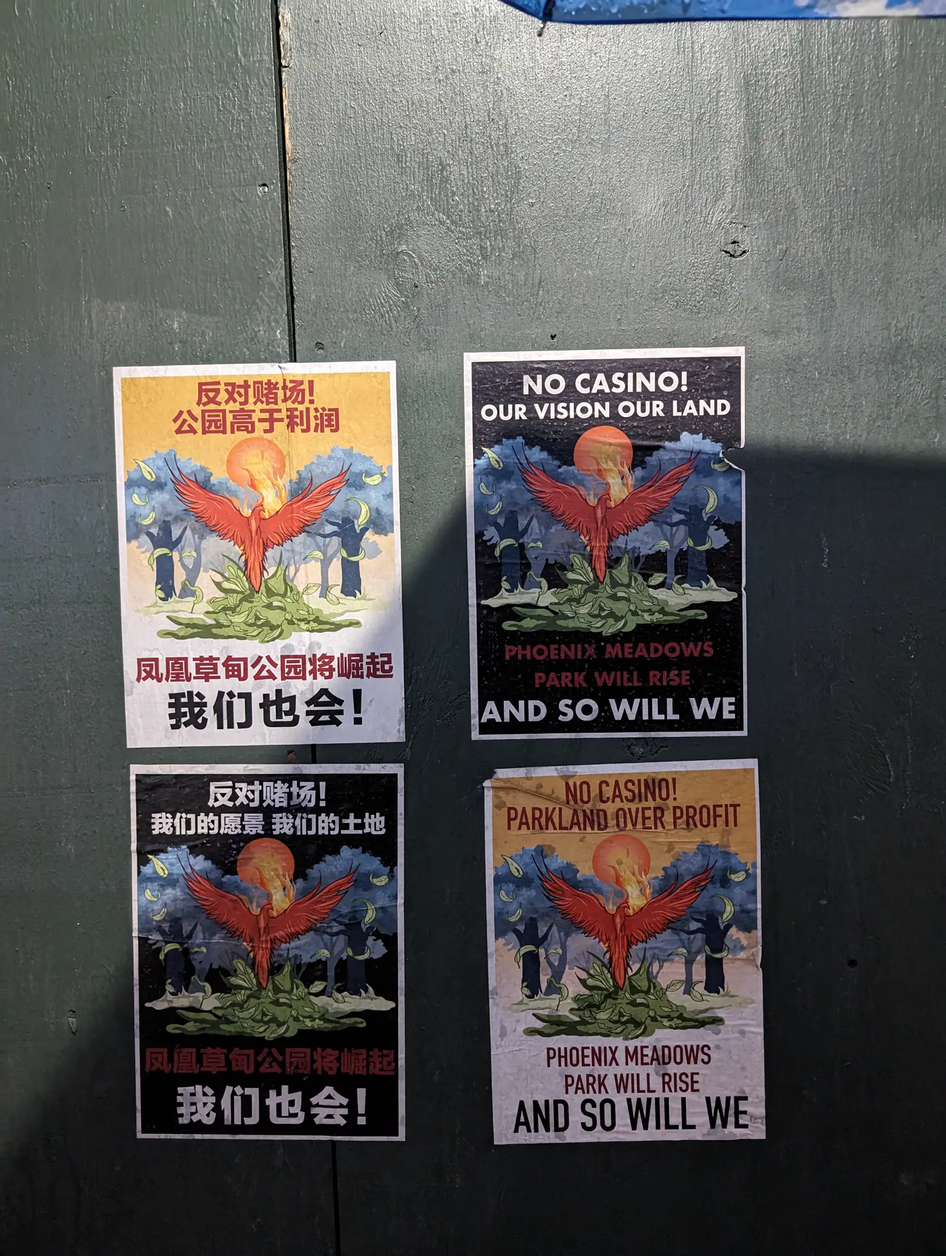
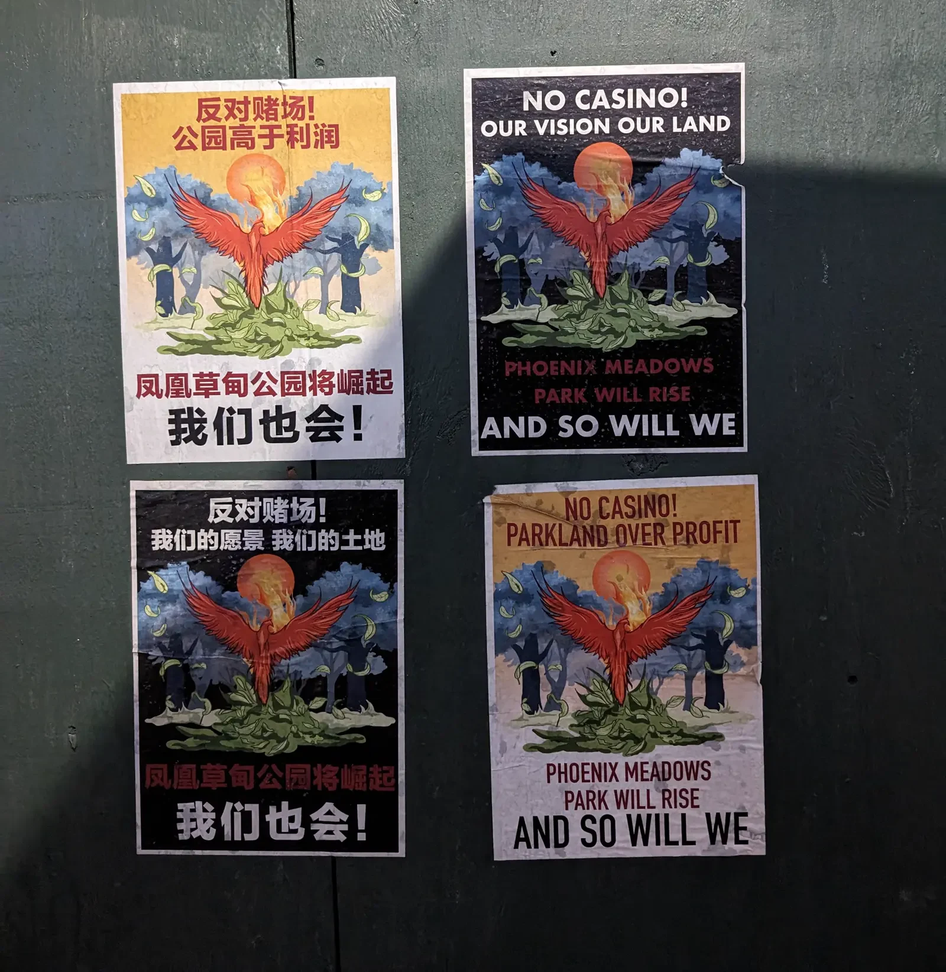
bedac: slide 6 rework — new press/render images, SFWD added
Poster photo cropped to drop the empty top wall (object-position hack no
longer needed). WSJ press item replaced with the masthead cropped off so
the headline reads at slide size. Casino render replaced with the article
image (Cohen + Hard Rock/Field Operations render). Added the Special
Flushing Waterfront District aerial as a third image in row 2, labeled
with a figcaption chip. Also moved the Santana plan/vertical slide ahead
of the experiential drawings.

diff --git a/talks/bedac/index.html b/talks/bedac/index.html
@@ -84,14 +84,15 @@
           </div>
 
           <!-- 5 · The casino fight + positionality -->
-          <div class="slide auto-rows" data-cap="Who owns the narrative?" data-credit="Photos: Zihao Zhang" data-notes="&lt;ul&gt;&lt;li&gt;$8B casino complex licensed Dec 2025, Field Operations landscape.&lt;/li&gt;&lt;li&gt;Protest.&lt;/li&gt;&lt;li&gt;Shanghai-like city. Dream.&lt;/li&gt;&lt;/ul&gt;">
+          <div class="slide auto-rows" data-cap="Who owns the narrative?" data-credit="Photos: Zihao Zhang · Renderings: Hard Rock/Field Operations; Jeff Stikeman Architectural Art · Press: WSJ" data-notes="&lt;ul&gt;&lt;li&gt;$8B casino complex licensed Dec 2025, Field Operations landscape.&lt;/li&gt;&lt;li&gt;Protest.&lt;/li&gt;&lt;li&gt;Shanghai-like city. Dream.&lt;/li&gt;&lt;/ul&gt;">
             <div class="row">
-              <figure><img src="/talks/bedac/img/s03_3.webp" alt="Bilingual NO CASINO posters on a wall in Flushing" style="object-position:center 78%;"></figure>
+              <figure><img src="/talks/bedac/img/s03_3.webp" alt="Bilingual NO CASINO posters on a wall in Flushing"></figure>
               <figure><img src="/talks/bedac/img/s_casino_3.webp" alt="Press item: New York developer bets on an $800 million project to make Queens feel like Shanghai"></figure>
             </div>
             <div class="row">
               <figure><img src="/talks/bedac/img/s_casino_1.webp" alt="Residents protesting the Metropolitan Park casino with signs in Spanish, Chinese and English"></figure>
-              <figure><img src="/talks/bedac/img/s_casino_2.webp" alt="Rendering of the proposed Metropolitan Park casino complex beside Citi Field"></figure>
+              <figure><img src="/talks/bedac/img/s_casino_2.webp" alt="Mets owner Steve Cohen beside a rendering of the proposed Metropolitan Park casino complex"></figure>
+              <figure><img src="/talks/bedac/img/s_swd.webp" alt="Aerial rendering of the Special Flushing Waterfront District along Flushing Creek"><figcaption>Special Flushing Waterfront District</figcaption></figure>
             </div>
           </div>
 
@@ -178,6 +179,12 @@
             <img src="/talks/bedac/img/s09_3.webp" alt="Sabastian Gatton, experiential drawing of a planted allée">
           </div>
 
+          <!-- 31 · Santana, plan + vertical -->
+          <div class="slide auto" data-cap="Lia Santana — plan and vertical study" data-notes="">
+            <figure><img src="/talks/bedac/img/s09b_5.webp" alt="Lia Santana, rotated site plan"></figure>
+            <figure><img src="/talks/bedac/img/s09b_4.webp" alt="Lia Santana, vertical study"></figure>
+          </div>
+
           <!-- 29 · Santana -->
           <div class="slide auto" data-cap="Lia Santana — experiential drawings" data-notes="">
             <figure><img src="/talks/bedac/img/s09b_1.webp" alt="Lia Santana, experiential drawing with structures and canopy"></figure>
@@ -187,12 +194,6 @@
           <!-- 30 · Santana, structure -->
           <div class="slide single" data-cap="Lia Santana — scaffold and water's edge" data-notes="">
             <img src="/talks/bedac/img/s09b_3.webp" alt="Lia Santana, timber scaffold structure at the water's edge">
-          </div>
-
-          <!-- 31 · Santana, plan + vertical -->
-          <div class="slide auto" data-cap="Lia Santana — plan and vertical study" data-notes="">
-            <figure><img src="/talks/bedac/img/s09b_5.webp" alt="Lia Santana, rotated site plan"></figure>
-            <figure><img src="/talks/bedac/img/s09b_4.webp" alt="Lia Santana, vertical study"></figure>
           </div>
 
           <!-- 32 · Blank — the closing question is asked with nothing on screen -->
